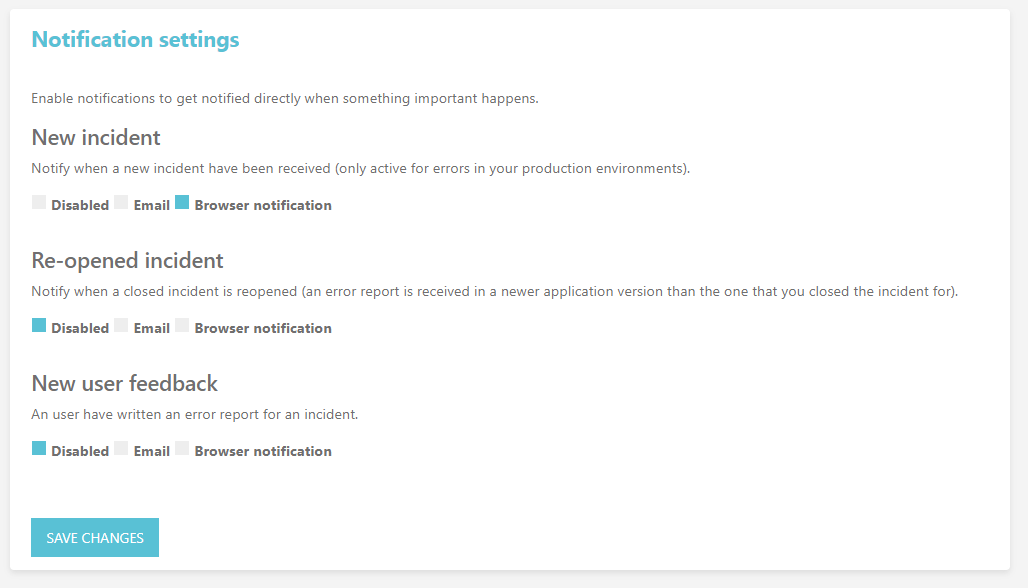
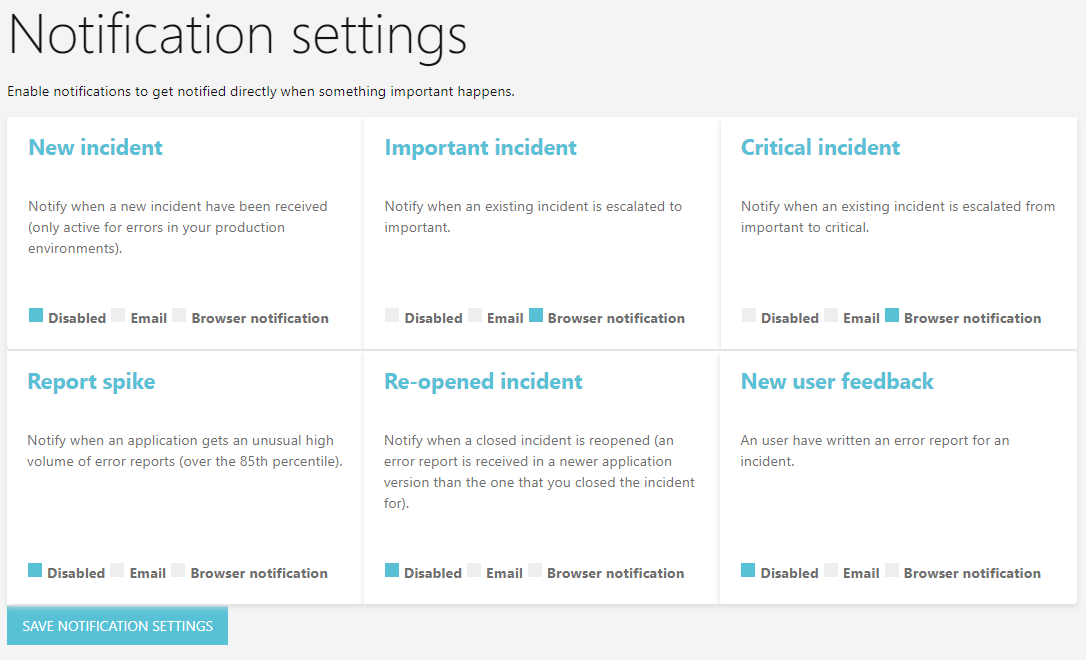
Recommendations, partitions and context providers.

diff --git a/docs/features/recommendations/index.md b/docs/features/recommendations/index.md
@@ -14,14 +14,17 @@ To enable insights, use the `AddPartition` method in the client library to defin
 Err.Configuration.AddPartition(context => 
 {
   // See how many installations are affected
-  context.AddPartition("Installations", ConfigurationManager.AppSetting["InstallationId"]);
+  context.AddPartition("InstallationId", ConfigurationManager.AppSetting["InstallationId"]);
 
   // See number of affected users
-  context.AddPartition("Users", Thread.CurrentPrincipal.Identity.Name);
+  context.AddPartition("UserId", Thread.CurrentPrincipal.Identity.Name);
+
+  // See number of affected servers
+  context.AddPartition("ServerId", Environment.MachineName);
 });
 ```
 
-The `context` parameter gives access to all collected data.
+The `context` parameter gives access to all collected data in the error report.
 
 ```csharp
 Err.Configuration.AddPartition(context =>
@@ -62,3 +65,19 @@ Here is a sample for users:
 ![](../../screens/features/recommendations/configure5.png)
 
 Once done, try to report an exception and then click on "Recommendations" under the "Discover" menu.
+
+# Error escalation
+
+Incidents in Coderr have three different escalation levels. Normal, Important and Critical.
+
+* Normal incidents are priortized by getting points with the help of the above configured partitions
+* Important incidents will also be priortized above normal incidents.
+* Critical incidents will always be prioritized above important incidents.
+
+# Receiving notifications
+
+Coderr can notify you using email or push notifications when incidents are escalated to important or critical.
+
+To configure notifications, press the user icon top right in the Coderr UI.
+
+[Read more about notifications](../incidents/notifications)

diff --git a/docs/client/extending/contextprovider.md b/docs/client/extending/contextprovider.md
@@ -14,6 +14,29 @@ Then register the provider using `Err.Configuration.ContextProviders.Add(new You
 Here is a sample for .NET Core MVC:
 
 ```csharp
+public class SampleProvider : IContextCollectionProvider
+{
+    /// <inheritdoc />
+    public ContextCollectionDTO Collect(IErrorReporterContext context)
+    {
+        if (!(context is MvcCoreErrorContext aspNetContext) || aspNetContext.ViewBag == null)
+            return null;
+
+        var properties = new Dictionary<string,string>();
+        properties["CurrentUser"] = Thread.CurrentPrincipal.Identity.Name;
+        properties["ErrTags"] = "fatal";
+
+        return new ContextInfoCollection(Name, properties);
+    }
+
+    /// <inheritdoc />
+    public string Name => "MyData";
+}
+```
+
+There is also a helper class which can convert .NET objects into context collections:
+
+```csharp
 public class ViewBagProvider : IContextCollectionProvider
 {
     /// <inheritdoc />

diff --git a/docs/features/incidents/notifications/index.md b/docs/features/incidents/notifications/index.md
@@ -14,3 +14,10 @@ Now you should see the settings page.
 Browser notifications allows you browser to create OS notifications like:
 
 ![](../../../screens/features/notifications/browser_notification.png)
+
+
+# Escalation of incidents
+
+As seen in the settings, incidents can be escalated to important and critical. It's done based on your own criterias like number of affected users or servers.
+
+[Incident recommendations](../../recommendations)
